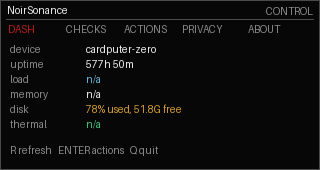
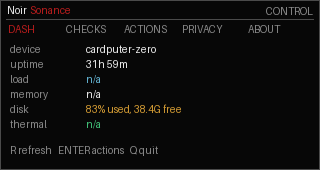
Fix Linux packages for noirsonance2

diff --git a/README.md b/README.md
@@ -28,8 +28,8 @@ Or download the package for your machine:
 
 ```bash
 ARCH="$(dpkg --print-architecture)"
-curl -LO "https://raw.githubusercontent.com/rimedag/control_center_cardputerzero/main/pool/main/n/noirsonance-control-center/noirsonance-control-center_0.1.0-noirsonance1_${ARCH}.deb"
-sudo apt install "./noirsonance-control-center_0.1.0-noirsonance1_${ARCH}.deb"
+curl -LO "https://raw.githubusercontent.com/rimedag/control_center_cardputerzero/main/pool/main/n/noirsonance-control-center/noirsonance-control-center_0.1.0-noirsonance2_${ARCH}.deb"
+sudo apt install "./noirsonance-control-center_0.1.0-noirsonance2_${ARCH}.deb"
 ```
 
 ## Launch